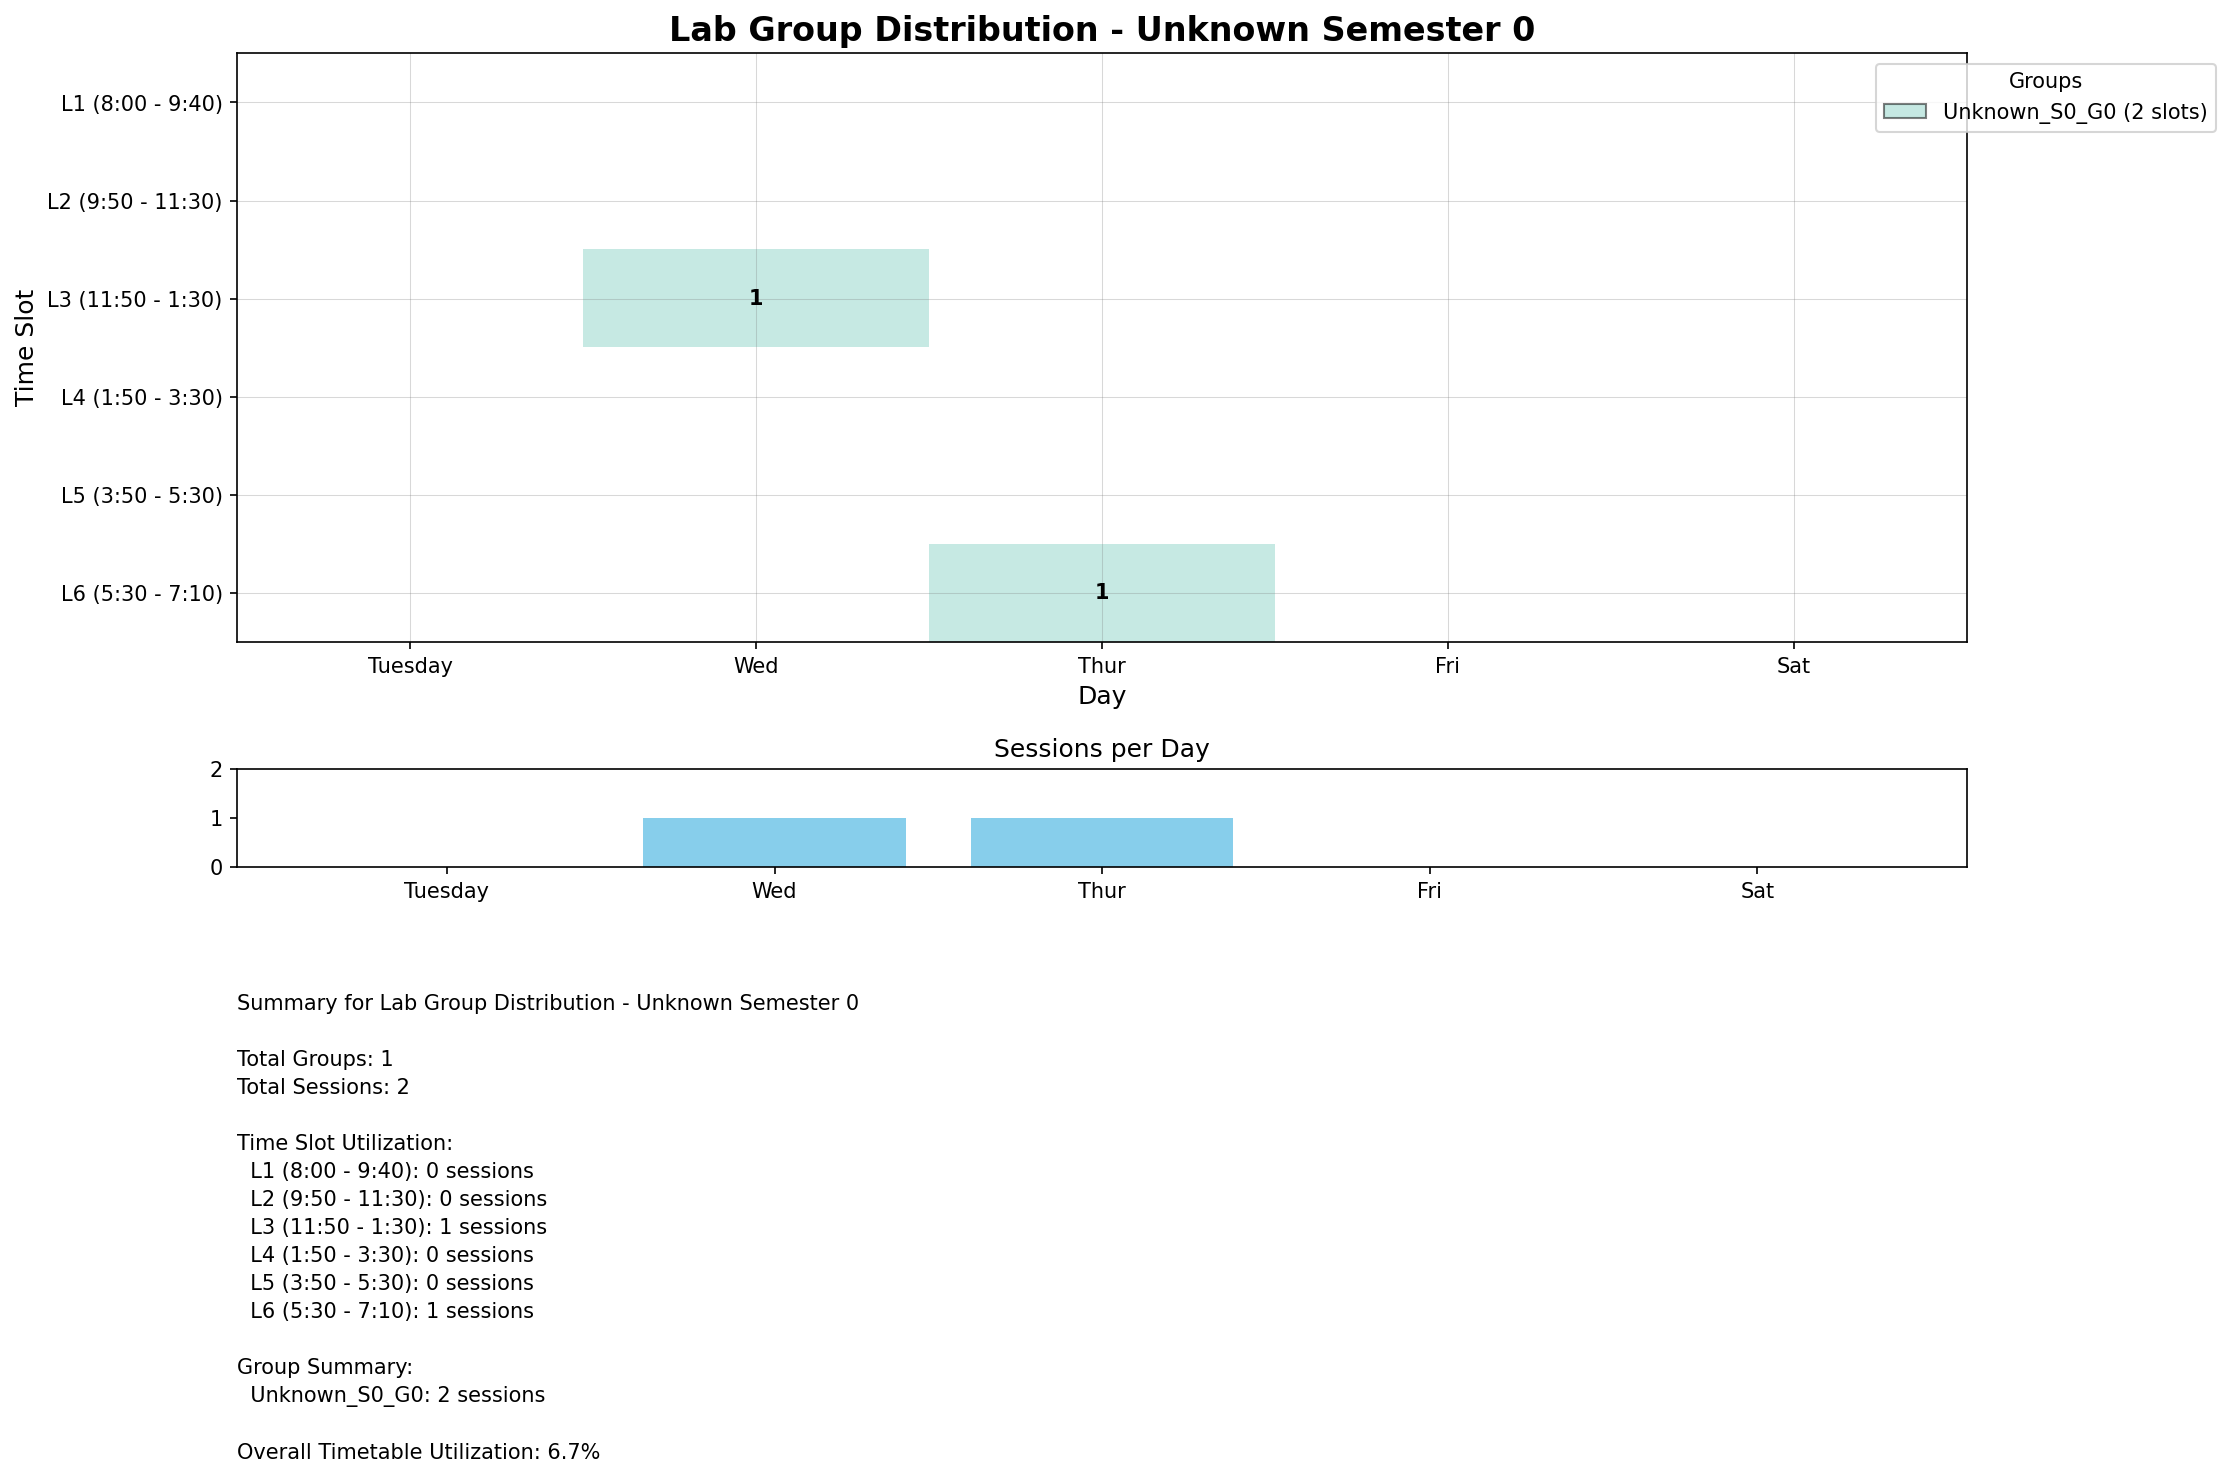
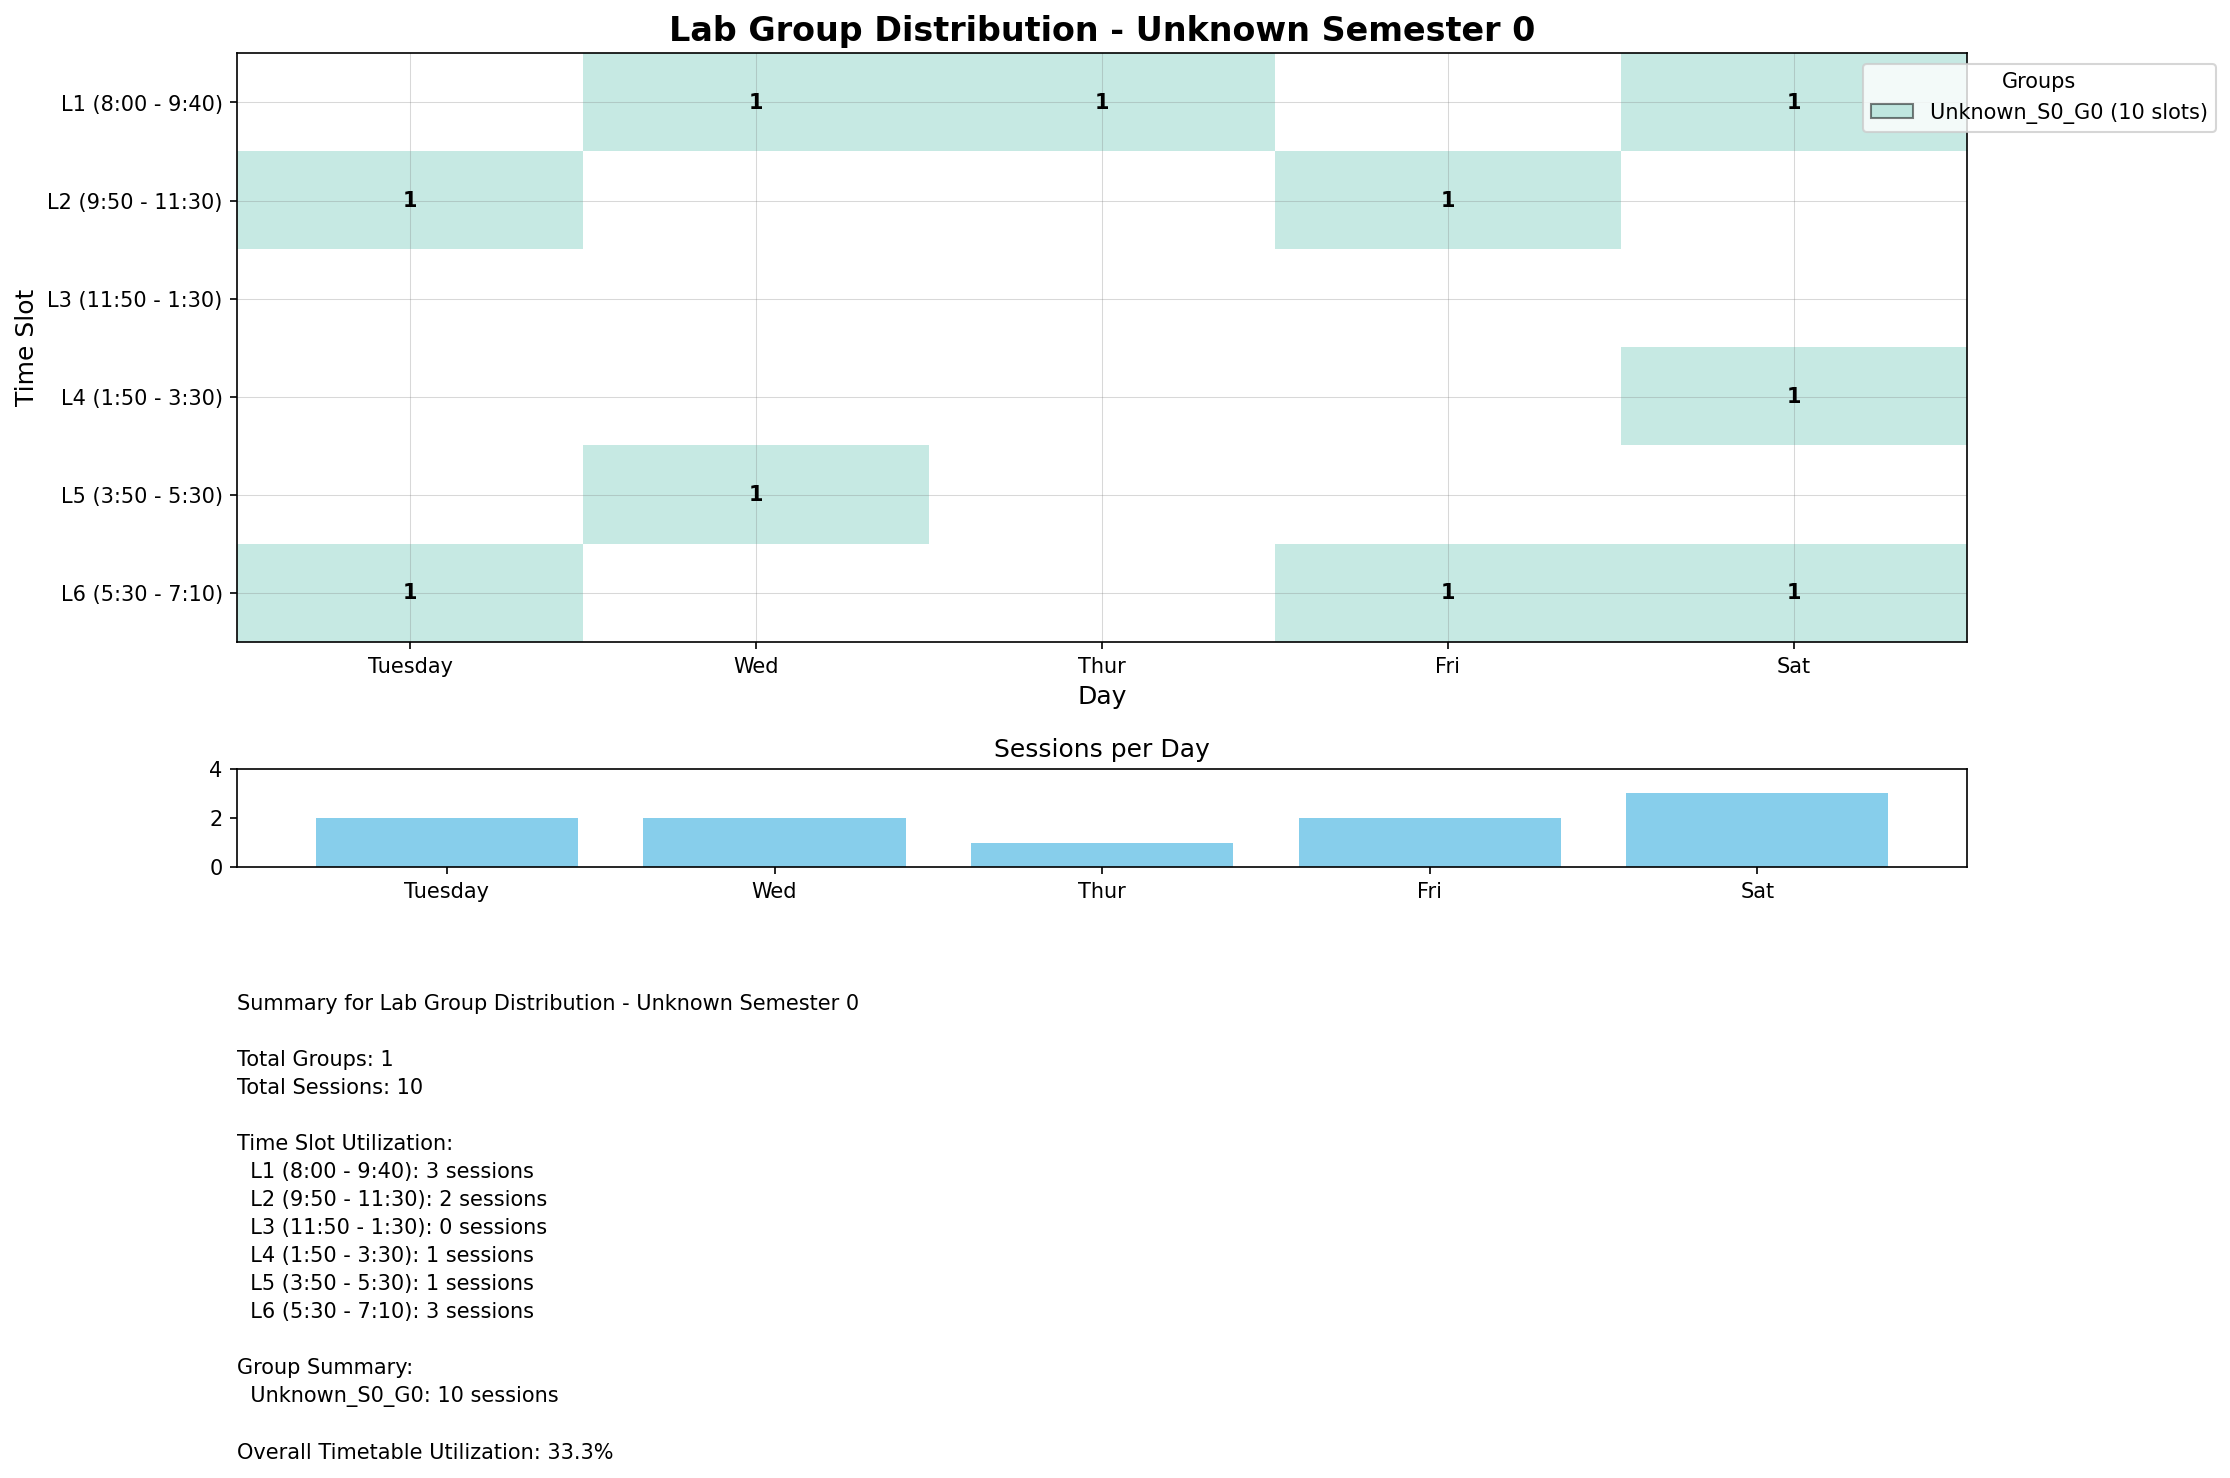
try make core lab work

diff --git a/src/lab_scheduler.py b/src/lab_scheduler.py
@@ -591,14 +591,44 @@ class LabScheduler:
         self.logger.info(f"  Max instances per course: {instance_analysis['max_instances_per_course']}")
         self.logger.info(f"  Dynamic student capacity: {instance_analysis['dynamic_student_capacity']} students")
         
-        # CRITICAL: Number of groups = Number of unique courses in the semester
+        # CRITICAL: Number of groups determination based on core lab presence
         # Each course can appear in at most 2 of these groups for optimal student choice
         unique_course_codes = instance_analysis['unique_courses']
         
-        # Always create as many groups as there are unique courses
-        num_groups = unique_course_codes
+        # Check if this semester/department has core lab courses
+        sem_dept_has_core_labs = False
+        unique_practical_courses = set()
         
-        self.logger.info(f"Creating {num_groups} groups (one per unique course: {unique_course_codes})")
+        for instance in courses:
+            instance_id = instance['id']
+            practical_hours = instance.get('practical_hours', 0)
+            
+            # Check if this instance is a core lab
+            if instance_id in self.core_lab_instance_ids:
+                sem_dept_has_core_labs = True
+            
+            # Collect unique courses with practical hours
+            if practical_hours > 0:
+                unique_practical_courses.add(instance['course_code'])
+        
+        # Log core lab detection results
+        if sem_dept_has_core_labs:
+            self.logger.info(f"  🧪 CORE LAB SEMESTER: Will create {len(unique_practical_courses)} groups (practical courses only)")
+            self.logger.info(f"  🧪 Unique practical courses: {', '.join(sorted(unique_practical_courses))}")
+        else:
+            self.logger.info(f"  📚 STANDARD SEMESTER: Will create {unique_course_codes} groups (all courses)")
+        
+        # Determine number of groups based on core lab presence
+        if sem_dept_has_core_labs:
+            # If semester has core labs, limit groups to unique courses with practical hours
+            num_groups = len(unique_practical_courses)
+            self.logger.info(f"🧪 CORE LAB DETECTED: Creating {num_groups} groups (limited to unique practical courses: {len(unique_practical_courses)})")
+            self.logger.info(f"📋 Core lab courses present - using practical course count instead of total course count")
+        else:
+            # Otherwise, use the standard logic (all unique courses)
+            num_groups = unique_course_codes
+            self.logger.info(f"Creating {num_groups} groups (one per unique course: {unique_course_codes})")
+        
         self.logger.info(f"📋 CONSTRAINT: Each course limited to maximum 2 of the {num_groups} groups for optimal choice balance")
         
         # Initialize groups
@@ -1996,6 +2026,9 @@ class LabScheduler:
         
         # For each semester and group, encourage scheduling in parallel
         for (dept, semester), groups in semester_groups.items():
+            # Check if this department/semester has core labs
+            has_core_labs = self._check_if_dept_semester_has_core_labs(groups)
+            
             for group_idx, course_instances in groups.items():
                 if len(course_instances) <= 1:
                     continue  # Skip groups with only one course
@@ -2039,8 +2072,23 @@ class LabScheduler:
                             model.Add(sum(course_assignments) >= 2).OnlyEnforceIf(parallel_bonus_2)
                             model.Add(sum(course_assignments) < 2).OnlyEnforceIf(parallel_bonus_2.Not())
                             
-                            # Add to our list of objective terms with higher weight (+8)
-                            self.group_parallelization_vars.append(parallel_bonus_2 * 8)
+                            # Determine weights based on whether this is a core lab department
+                            if has_core_labs:
+                                # CORE LAB DEPARTMENTS: Much higher weights to maximize parallelization
+                                weight_2 = 25  # 3x higher than standard
+                                weight_3 = 40  # 3x higher than standard  
+                                weight_4 = 60  # 3x higher than standard
+                                weight_5 = 100 # 5x higher than standard
+                                self.logger.debug(f"🧪 CORE LAB: Using enhanced parallelization weights for {dept} S{semester} G{group_idx+1}")
+                            else:
+                                # STANDARD DEPARTMENTS: Normal weights
+                                weight_2 = 8
+                                weight_3 = 12
+                                weight_4 = 16
+                                weight_5 = 20
+                            
+                            # Add to our list of objective terms with appropriate weight
+                            self.group_parallelization_vars.append(parallel_bonus_2 * weight_2)
                             
                             # If we have 3+ potential courses, add graduated bonuses
                             if len(course_assignments) >= 3:
@@ -2052,8 +2100,8 @@ class LabScheduler:
                                 model.Add(sum(course_assignments) >= 3).OnlyEnforceIf(parallel_bonus_3)
                                 model.Add(sum(course_assignments) < 3).OnlyEnforceIf(parallel_bonus_3.Not())
                             
-                                # Even higher weight for 3+ courses (+12)
-                                self.group_parallelization_vars.append(parallel_bonus_3 * 12)
+                                # Higher weight for 3+ courses
+                                self.group_parallelization_vars.append(parallel_bonus_3 * weight_3)
                                 
                                 # If we have 4+ potential courses, add more graduated bonuses
                                 if len(course_assignments) >= 4:
@@ -2065,8 +2113,8 @@ class LabScheduler:
                                     model.Add(sum(course_assignments) >= 4).OnlyEnforceIf(parallel_bonus_4)
                                     model.Add(sum(course_assignments) < 4).OnlyEnforceIf(parallel_bonus_4.Not())
                                     
-                                    # Even higher weight for 4+ courses (+16)
-                                    self.group_parallelization_vars.append(parallel_bonus_4 * 16)
+                                    # Higher weight for 4+ courses
+                                    self.group_parallelization_vars.append(parallel_bonus_4 * weight_4)
                                     
                                     # If we have 5+ potential courses, add more graduated bonuses
                                     if len(course_assignments) >= 5:
@@ -2078,16 +2126,49 @@ class LabScheduler:
                                         model.Add(sum(course_assignments) >= 5).OnlyEnforceIf(parallel_bonus_5)
                                         model.Add(sum(course_assignments) < 5).OnlyEnforceIf(parallel_bonus_5.Not())
                                         
-                                        # Highest weight for 5+ courses (+20)
-                                        self.group_parallelization_vars.append(parallel_bonus_5 * 20)
+                                        # Highest weight for 5+ courses
+                                        self.group_parallelization_vars.append(parallel_bonus_5 * weight_5)
+        
+        # Count core lab vs standard departments
+        core_lab_depts = sum(1 for (dept, semester), groups in semester_groups.items() 
+                           if self._check_if_dept_semester_has_core_labs(groups))
+        standard_depts = len(semester_groups) - core_lab_depts
         
         self.logger.info(f"Added {len(self.group_parallelization_vars)} parallelization bonus variables to objective")
         self.logger.info("📊 Graduated parallelization bonus weights:")
-        self.logger.info("  • 2 courses in parallel: +8 (was +4)")
-        self.logger.info("  • 3 courses in parallel: +12 (was +6)")
-        self.logger.info("  • 4 courses in parallel: +16 (new!)")
-        self.logger.info("  • 5+ courses in parallel: +20 (new!)")
-        self.logger.info("This combined with the 4-slot limit will strongly encourage parallel scheduling")
+        self.logger.info("  🧪 CORE LAB DEPARTMENTS (Enhanced Parallelization):")
+        self.logger.info("    • 2 courses in parallel: +25 (3x enhanced)")
+        self.logger.info("    • 3 courses in parallel: +40 (3x enhanced)")
+        self.logger.info("    • 4 courses in parallel: +60 (3x enhanced)")
+        self.logger.info("    • 5+ courses in parallel: +100 (5x enhanced)")
+        self.logger.info("  📚 STANDARD DEPARTMENTS:")
+        self.logger.info("    • 2 courses in parallel: +8")
+        self.logger.info("    • 3 courses in parallel: +12")
+        self.logger.info("    • 4 courses in parallel: +16")
+        self.logger.info("    • 5+ courses in parallel: +20")
+        self.logger.info(f"Distribution: {core_lab_depts} core lab depts, {standard_depts} standard depts")
+        self.logger.info("🎯 CORE LAB STRATEGY: Maximizing parallel scheduling for optimal lab utilization")
+    
+    def _check_if_dept_semester_has_core_labs(self, groups):
+        """Check if any group in this department/semester contains core lab instances."""
+        # groups is a dictionary {group_idx: group_instances}
+        for group_idx, group in groups.items():
+            if not group:
+                continue
+            for instance in group:
+                # Handle both string IDs and dictionary instances
+                if isinstance(instance, dict):
+                    instance_id = instance['id']
+                elif isinstance(instance, str):
+                    instance_id = instance
+                else:
+                    # Log unexpected type and skip
+                    self.logger.warning(f"Unexpected instance type in group {group_idx}: {type(instance)} - {instance}")
+                    continue
+                    
+                if instance_id in self.core_lab_instance_ids:
+                    return True
+        return False
     
     def apply_max_consecutive_lab_slots_constraint(self, model, lab_assignments, lab_sessions):
         """Creates penalty variables for teachers having more than 2 consecutive lab sessions."""
@@ -2196,8 +2277,8 @@ class LabScheduler:
         self.logger.info(f"Applied {constraints_applied} theory-lab conflict constraints")
 
     def apply_semester_lab_slot_limit_constraint(self, model, lab_assignments):
-        """CONSTRAINT: Limit the total number of lab slots used by any single semester/department to 18."""
-        self.logger.info("Applying semester lab slot limit constraint (max 18 slots per sem/dept)...")
+        """CONSTRAINT: Limit the total number of lab slots used by any single semester/department to 18 (excluding core labs)."""
+        self.logger.info("Applying semester lab slot limit constraint (max 18 slots per sem/dept, core labs exempt)...")
         
         # Group course instances by department and semester
         semester_courses = defaultdict(list)
@@ -2210,10 +2291,14 @@ class LabScheduler:
 
         # Apply constraint for each semester/department
         for (dept, semester), instance_ids in semester_courses.items():
-            # Exclude core lab instances from this constraint
+            # Exclude core lab instances from this constraint (they get unlimited slots)
             non_core_instance_ids = [
                 inst_id for inst_id in instance_ids 
                 if inst_id not in self.core_lab_instance_ids
+            ]
+            core_instance_ids = [
+                inst_id for inst_id in instance_ids 
+                if inst_id in self.core_lab_instance_ids
             ]
 
             if not non_core_instance_ids:
@@ -2233,7 +2318,7 @@ class LabScheduler:
                 for session_idx in range(len(self.lab_sessions)):
                     # Slot is used if ANY non-core lab from this semester/dept is scheduled in it
                     
-                    # Get all assignment variables for this slot for this semester/dept
+                    # Get all assignment variables for this slot for this semester/dept (non-core labs only)
                     slot_assignments = []
                     for instance_id in non_core_instance_ids:
                         slot_assignments.extend(
@@ -2249,7 +2334,8 @@ class LabScheduler:
             total_slots_used = sum(slot_used_vars.values())
             model.Add(total_slots_used <= 18)
             
-            self.logger.info(f"  - Constraint for {dept} Semester {semester}: total used non-core lab slots <= 18")
+            self.logger.info(f"  - Constraint for {dept} Semester {semester}: non-core lab slots <= 18")
+            self.logger.info(f"    ({len(non_core_instance_ids)} regular labs limited, {len(core_instance_ids)} core labs exempt)")
 
     def apply_lab_efficiency_constraints(self, model, lab_assignments, lab_sessions):
         """Applies various constraints to improve the efficiency and quality of the lab schedule."""

diff --git a/src/data_analytics/verify_ltp_constraints.py b/src/data_analytics/verify_ltp_constraints.py
@@ -6,7 +6,7 @@ def verify_ltp_constraints():
     """Verify that LTP constraints are satisfied for all courses with updated batching logic and theory verification."""
     
     # Load course requirements
-    course_file = "data/department_data/Computing_department.csv"
+    course_file = "data/department_data/Electronics___Communication_Engineering_courses.csv"
     
     if not os.path.exists(course_file):
         print(f"Course file not found: {course_file}")
